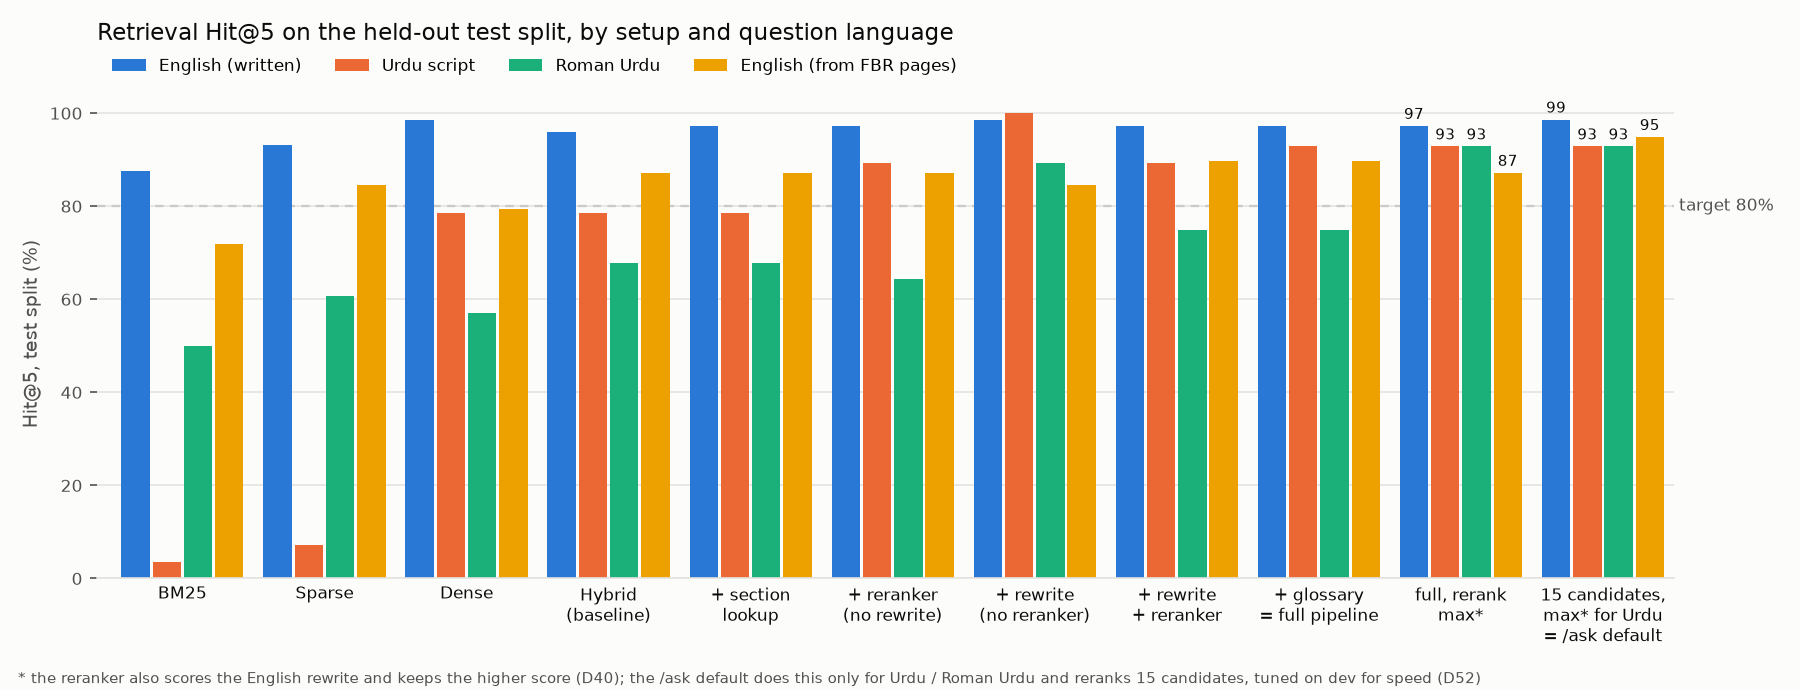
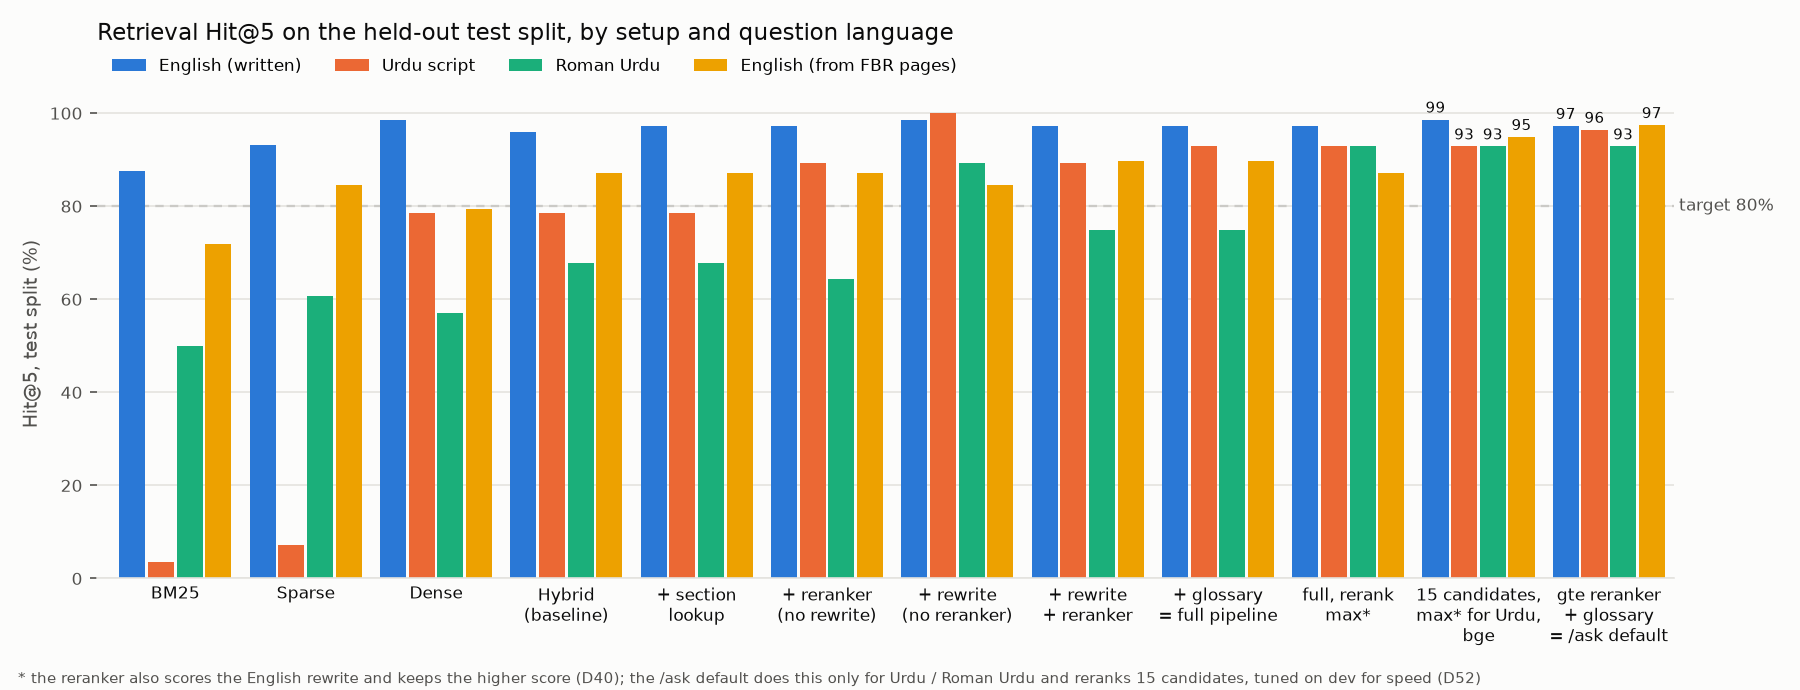
eval: eval page numbers (end to end 189 of 189, judge 168, test set 262) and the ablation chart's last bar is now the gte + glossary default

diff --git a/eval/plot_ablation.py b/eval/plot_ablation.py
@@ -29,7 +29,8 @@ SETUPS = [
     ("pipeline-rewrite-rerank-test", "+ rewrite\n+ reranker"),
     ("pipeline-full-test", "+ glossary\n= full pipeline"),
     ("pipeline-full-max-test", "full, rerank\nmax*"),
-    ("pipeline-fast-test", "15 candidates,\nmax* for Urdu\n= /ask default"),
+    ("pipeline-fast-test", "15 candidates,\nmax* for Urdu,\nbge"),
+    ("pipeline-fast-gte-test", "gte reranker\n+ glossary\n= /ask default"),
 ]
 GROUPS = [
     ("english", "English (written)"),

diff --git a/eval/summary.py b/eval/summary.py
@@ -38,7 +38,7 @@ SETUPS = [
     (
         "pipeline-fast-gte-test",
         "Fast, gte (default)",
-        "the same with the smaller gte reranker, 256 tokens (/ask, D62)",
+        "the same with the smaller gte reranker, 256 tokens (/ask, D62; glossary row D68)",
     ),
 ]
 
